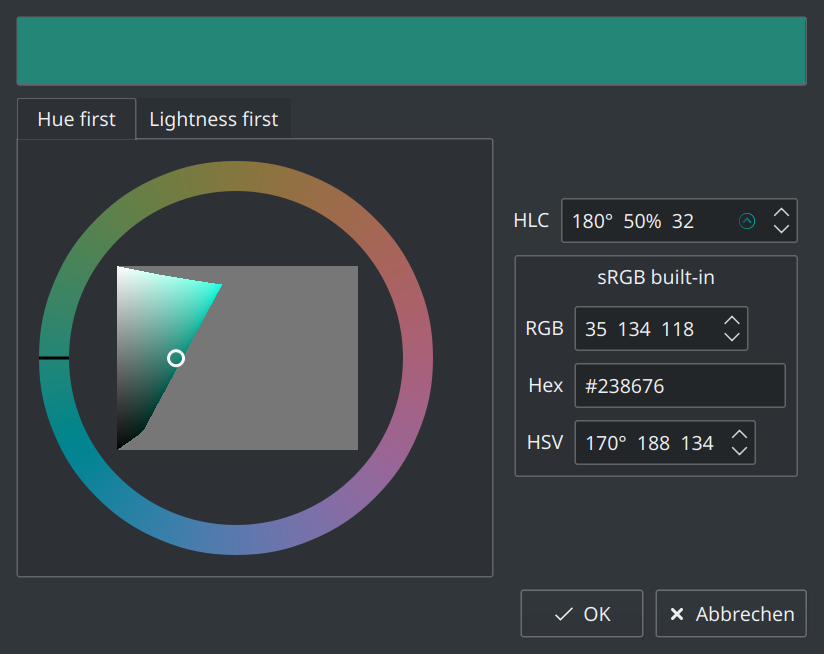
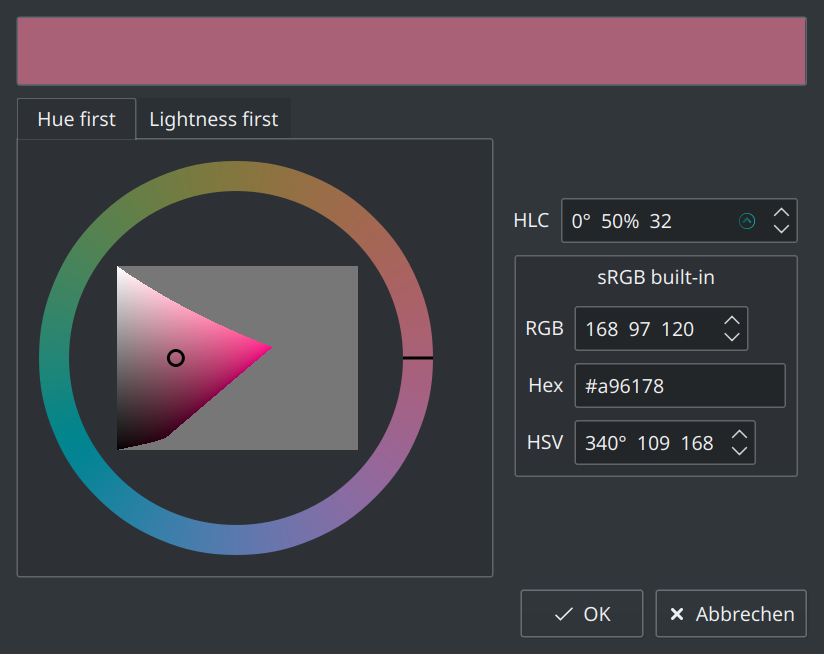
Bug fixes for ChromaLightnessDiagram and translation update

diff --git a/test/testchromalightnessdiagram.cpp b/test/testchromalightnessdiagram.cpp
@@ -263,18 +263,30 @@ private Q_SLOTS:
         QTest::mouseRelease(&myWidget, Qt::MouseButton::LeftButton);
     }
 
-    void testPaintEvent()
+    void testPaintEventNormalSize()
+    {
+        ChromaLightnessDiagram myWidget {m_rgbColorSpace};
+        myWidget.show();
+        // Test normal size
+        myWidget.resize(100, 100);
+        myWidget.repaint();
+    }
+
+    void testPaintEventTooSmallSize()
+    {
+        ChromaLightnessDiagram myWidget {m_rgbColorSpace};
+        myWidget.show();
+        // Test small size (too small to show a diagram)
+        myWidget.resize(2, 2);
+        myWidget.repaint();
+    }
+
+    void testPaintEventEmptySize()
     {
         ChromaLightnessDiagram myWidget {m_rgbColorSpace};
         myWidget.show();
         // Test empty size
         myWidget.resize(0, 0);
-        myWidget.repaint();
-        // Test small size (too small to show a diagram)
-        myWidget.resize(2, 2);
-        myWidget.repaint();
-        // Test normal size
-        myWidget.resize(100, 100);
         myWidget.repaint();
     }
 
@@ -286,15 +298,14 @@ private Q_SLOTS:
         referenceColorLch.c = 20;
         referenceColorLch.h = 180;
         myDiagram.setCurrentColor(referenceColorLch);
-        if (myDiagram.currentColor().l != 50) {
-            throw;
-        }
-        if (myDiagram.currentColor().h != 180) {
-            throw;
-        }
-        if (myDiagram.currentColor().c != 0) {
-            throw;
-        }
+
+        // Assert pre-conditions:
+
+        QCOMPARE(myDiagram.currentColor().l, 50);
+        QCOMPARE(myDiagram.currentColor().c, 20);
+        QCOMPARE(myDiagram.currentColor().h, 180);
+
+        // Actual test:
 
         myDiagram.setCurrentColor(referenceColorLch);
         QTest::keyClick(&myDiagram, Qt::Key_Left);
@@ -323,13 +334,13 @@ private Q_SLOTS:
         myDiagram.setCurrentColor(referenceColorLch);
         QTest::keyClick(&myDiagram, Qt::Key_Home);
         QVERIFY(myDiagram.currentColor().l == referenceColorLch.l);
-        QVERIFY(myDiagram.currentColor().c < referenceColorLch.c);
+        QVERIFY(myDiagram.currentColor().c > referenceColorLch.c);
         QVERIFY(myDiagram.currentColor().h == referenceColorLch.h);
 
         myDiagram.setCurrentColor(referenceColorLch);
         QTest::keyClick(&myDiagram, Qt::Key_End);
         QVERIFY(myDiagram.currentColor().l == referenceColorLch.l);
-        QVERIFY(myDiagram.currentColor().c > referenceColorLch.c);
+        QVERIFY(myDiagram.currentColor().c < referenceColorLch.c);
         QVERIFY(myDiagram.currentColor().h == referenceColorLch.h);
 
         myDiagram.setCurrentColor(referenceColorLch);
@@ -350,15 +361,15 @@ private Q_SLOTS:
 
         myDiagram.setCurrentColor(referenceColorLch);
         QTest::keyClick(&myDiagram, Qt::Key_Left);
-        QVERIFY(myDiagram.currentColor().l == referenceColorLch.l);
-        QVERIFY(myDiagram.currentColor().c == referenceColorLch.c);
-        QVERIFY(myDiagram.currentColor().h == referenceColorLch.h);
+        QCOMPARE(myDiagram.currentColor().l, referenceColorLch.l);
+        QCOMPARE(myDiagram.currentColor().c, referenceColorLch.c);
+        QCOMPARE(myDiagram.currentColor().h, referenceColorLch.h);
 
         myDiagram.setCurrentColor(referenceColorLch);
-        QTest::keyClick(&myDiagram, Qt::Key_Home);
-        QVERIFY(myDiagram.currentColor().l == referenceColorLch.l);
-        QVERIFY(myDiagram.currentColor().c == referenceColorLch.c);
-        QVERIFY(myDiagram.currentColor().h == referenceColorLch.h);
+        QTest::keyClick(&myDiagram, Qt::Key_End);
+        QCOMPARE(myDiagram.currentColor().l, referenceColorLch.l);
+        QCOMPARE(myDiagram.currentColor().c, referenceColorLch.c);
+        QCOMPARE(myDiagram.currentColor().h, referenceColorLch.h);
 
         referenceColorLch.l = 0;
 
@@ -419,6 +430,7 @@ private Q_SLOTS:
         color.c = 20;
         color.h = 10;
         test.setCurrentColor(color);
+        QVERIFY(test.currentColor().hasSameCoordinates(color));
         QSignalSpy spy(&test, &ChromaLightnessDiagram::currentColorChanged);
         QCOMPARE(spy.count(), 0);
 

diff --git a/test/testrgbcolorspace.cpp b/test/testrgbcolorspace.cpp
@@ -1,0 +1,107 @@
+// SPDX-License-Identifier: MIT
+/*
+ * Copyright (c) 2020 Lukas Sommer sommerluk@gmail.com
+ *
+ * Permission is hereby granted, free of charge, to any person
+ * obtaining a copy of this software and associated documentation
+ * files (the "Software"), to deal in the Software without
+ * restriction, including without limitation the rights to use,
+ * copy, modify, merge, publish, distribute, sublicense, and/or sell
+ * copies of the Software, and to permit persons to whom the
+ * Software is furnished to do so, subject to the following
+ * conditions:
+ *
+ * The above copyright notice and this permission notice shall be
+ * included in all copies or substantial portions of the Software.
+ *
+ * THE SOFTWARE IS PROVIDED "AS IS", WITHOUT WARRANTY OF ANY KIND,
+ * EXPRESS OR IMPLIED, INCLUDING BUT NOT LIMITED TO THE WARRANTIES
+ * OF MERCHANTABILITY, FITNESS FOR A PARTICULAR PURPOSE AND
+ * NONINFRINGEMENT. IN NO EVENT SHALL THE AUTHORS OR COPYRIGHT
+ * HOLDERS BE LIABLE FOR ANY CLAIM, DAMAGES OR OTHER LIABILITY,
+ * WHETHER IN AN ACTION OF CONTRACT, TORT OR OTHERWISE, ARISING
+ * FROM, OUT OF OR IN CONNECTION WITH THE SOFTWARE OR THE USE OR
+ * OTHER DEALINGS IN THE SOFTWARE.
+ */
+
+#include "PerceptualColor/perceptualcolorglobal.h"
+#include "perceptualcolorinternal.h"
+
+// First included header is the public header of the class we are testing;
+// this forces the header to be self-contained.
+#include "rgbcolorspace.h"
+// Second, the private implementation.
+#include "rgbcolorspace_p.h"
+
+#include <QtTest>
+
+#include "PerceptualColor/rgbcolorspacefactory.h"
+
+namespace PerceptualColor
+{
+class TestRgbColorSpace : public QObject
+{
+    Q_OBJECT
+
+public:
+    TestRgbColorSpace(QObject *parent = nullptr)
+        : QObject(parent)
+    {
+    }
+
+private Q_SLOTS:
+    void initTestCase()
+    {
+        // Called before the first test function is executed
+    }
+
+    void cleanupTestCase()
+    {
+        // Called after the last test function was executed
+    }
+
+    void init()
+    {
+        // Called before each test function is executed
+    }
+
+    void cleanup()
+    {
+        // Called after every test function
+    }
+
+    void testNearestInGamutColorByAdjustingChromaLightness()
+    {
+        QSharedPointer<PerceptualColor::RgbColorSpace> myColorSpace =
+            // Create sRGB which is pretty much standard.
+            PerceptualColor::RgbColorSpaceFactory::createSrgb();
+
+        // Variables
+        LchDouble color;
+        LchDouble nearestInGamutColor;
+
+        // In-gamut colors should not be changed.
+        color.l = 50;
+        color.c = 20;
+        color.h = 10;
+        nearestInGamutColor = myColorSpace->nearestInGamutColorByAdjustingChromaLightness(color);
+        QVERIFY(nearestInGamutColor.hasSameCoordinates(color));
+
+        // A negative chroma value should not be normalized (this would
+        // mean to change the hue), but just put to 0.
+        color.l = 50;
+        color.c = -20;
+        color.h = 10;
+        nearestInGamutColor = myColorSpace->nearestInGamutColorByAdjustingChromaLightness(color);
+        QCOMPARE(nearestInGamutColor.l, 50);
+        QCOMPARE(nearestInGamutColor.c, 0);
+        QCOMPARE(nearestInGamutColor.h, 10);
+    }
+};
+
+} // namespace PerceptualColor
+
+QTEST_MAIN(PerceptualColor::TestRgbColorSpace)
+
+// The following “include” is necessary because we do not use a header file:
+#include "testrgbcolorspace.moc"

diff --git a/src/colordialog.cpp b/src/colordialog.cpp
@@ -58,31 +58,13 @@ ColorDialog::ColorDialog(QWidget *parent)
     , d_pointer(new ColorDialogPrivate(this))
 {
     d_pointer->initialize();
-    // As initial color, QColorDialog chooses white, probably because
-    // it’t quite neutral.
-    // We do things differently here: We want a color that has a chroma,
-    // because this way, new users do not see the widget diagrams at an
-    // extreme position, but somewhere in the middle. This is important,
-    // because extreme positions like “white” leave for example the
-    // chroma-hue-diagram at zero surface. Therefore, we try a middle
-    // lightness and a middle chroma (a lightness-chroma-combination that
-    // will be valid through the hole range of hue. For the hue, the natural
-    // choice would be 0°, which is red. Why choosing something different
-    // from 0° without a technical reason? If the lightness is 50%, among 0°,
-    // 90°, 180° and 270°, it’s 180° that has the lowest possible maximum C.
-    // Therefore, we choose 180°, because at a given chroma, the resulting
-    // color is more vivid than those at 0°, 90° and 270°. Also, be choose
-    // 180° because the color seems clean and colorful.
-    LchDouble initialColor;
-    initialColor.h = 180;
-    initialColor.l = LchValues::neutralLightness;
-    initialColor.c = LchValues::srgbVersatileChroma;
     // Calling setCurrentFullColor() guaranties to update all widgets
     // because it always sets a valid color, even when the color
     // parameter was invalid. As m_currentOpaqueColor is invalid
     // be default, and therefor different, setCurrentColor()
     // guaranties to update all widgets.
-    LchDouble lch = d_pointer->m_rgbColorSpace->nearestInGamutColorByAdjustingChroma(initialColor);
+    // TODO xxx
+    LchDouble lch = d_pointer->m_rgbColorSpace->nearestInGamutColorByAdjustingChroma(LchValues::srgbVersatileInitialColor);
     LchaDouble lcha;
     lcha.l = lch.l;
     lcha.c = lch.c;
@@ -464,7 +446,10 @@ void ColorDialog::ColorDialogPrivate::initialize()
     q_pointer->setOptions(QColorDialog::ColorDialogOption::DontUseNativeDialog);
 
     // Initialize the window title
-    q_pointer->setWindowTitle(tr("Select Color"));
+    // TODO Test that
+    // 1.) Our own translation has priority over the fallback
+    // 2.) Fallback to Qt translation works if no own translation is available
+    q_pointer->setWindowTitle(QColorDialog::tr("Select Color"));
 
     // Enable size grip
     // As this dialog can indeed be resized, the size grip should

diff --git a/src/rgbcolorspace.cpp b/src/rgbcolorspace.cpp
@@ -460,10 +460,21 @@ PerceptualColor::LchDouble RgbColorSpace::nearestInGamutColorByAdjustingChroma(c
 PerceptualColor::LchDouble RgbColorSpace::nearestInGamutColorByAdjustingChromaLightness(const PerceptualColor::LchDouble &color)
 {
     // TODO Would be great if this function could be const
-    QPoint myPixelPosition(qRound(color.c * (d_pointer->nearestNeighborSearchImageHeight - 1) / 100.0), qRound(d_pointer->nearestNeighborSearchImageHeight - 1 - color.l * (d_pointer->nearestNeighborSearchImageHeight - 1) / 100.0));
-    d_pointer->nearestNeighborSearchImage->setHue(color.h);
+
+    // Initialization
+    LchDouble temp = color;
+    if (temp.c < 0) {
+        temp.c = 0;
+    }
+
+    if (isInGamut(temp)) {
+        return temp;
+    }
+
+    QPoint myPixelPosition(qRound(temp.c * (d_pointer->nearestNeighborSearchImageHeight - 1) / 100.0), qRound(d_pointer->nearestNeighborSearchImageHeight - 1 - temp.l * (d_pointer->nearestNeighborSearchImageHeight - 1) / 100.0));
+    d_pointer->nearestNeighborSearchImage->setHue(temp.h);
     myPixelPosition = d_pointer->nearestNeighborSearch(myPixelPosition, d_pointer->nearestNeighborSearchImage->getImage());
-    LchDouble result = color;
+    LchDouble result = temp;
     result.c = myPixelPosition.x() * 100.0 / (d_pointer->nearestNeighborSearchImageHeight - 1);
     result.l = 100 - myPixelPosition.y() * 100.0 / (d_pointer->nearestNeighborSearchImageHeight - 1);
     return result;

diff --git a/src/chromalightnessdiagram.cpp b/src/chromalightnessdiagram.cpp
@@ -468,6 +468,14 @@ void ChromaLightnessDiagram::keyPressEvent(QKeyEvent *event)
  * and lightness ranges? */
 bool ChromaLightnessDiagram::ChromaLightnessDiagramPrivate::isWidgetPixelPositionInGamut(const QPoint widgetPixelPosition) const
 {
+    if (calculateImageSizePhysical().isEmpty()) {
+        // If there is no displayed gamut, the anser must be false.
+        // But fromWidgetPixelPositionToColor() would return an in-gamut
+        // fallback color nevertheless. Therefore, we have to catch
+        // the special case with an empty diagram here manually.
+        return false;
+    }
+
     const LchDouble color = fromWidgetPixelPositionToColor(widgetPixelPosition);
     return (
         // Test if C is in range. This is important because a negative C value
@@ -492,7 +500,6 @@ void ChromaLightnessDiagram::setCurrentColor(const PerceptualColor::LchDouble &n
     const LchDouble newColorInGamut =
         // Move newCurrentColor into the gamut (if necessary) – while preserving the hue:
         d_pointer->m_rgbColorSpace->nearestInGamutColorByAdjustingChromaLightness(newCurrentColor);
-
     if (newColorInGamut.hasSameCoordinates(d_pointer->m_currentColor)) {
         return;
     }

diff --git a/src/lchvalues.h b/src/lchvalues.h
@@ -114,8 +114,13 @@ public:
      *
      * The hue range is not linear, but circular – and so are the widgets
      * displaying him: The handle has the same visibility, whereever he is
-     * and whatever the hue value is. Therefore, we use a neutral hue
-     * as default value. */
+     * and whatever the hue value is. Therefore, we use 0° as default value
+     * which seems to be the natural choise.
+     *
+     * @note An alternative to 0° might be 180°. If the lightness is 50%,
+     * among 0°, 90°, 180° and 270°, it’s 180° that has the lowest possible
+     * maximum chroma. So when choose 180°, with a given chroma, the resulting
+     * color is more vivid and clean than those at 0°, 90° and 270°. */
     static constexpr LchDouble srgbVersatileInitialColor {neutralLightness, srgbVersatileChroma, neutralHue};
 
 private:

diff --git a/tools/main.cpp b/tools/main.cpp
@@ -72,7 +72,7 @@ int main(int argc, char *argv[])
     QCoreApplication::setAttribute(Qt::AA_UseHighDpiPixmaps);
     // Instanciate the application object
     QApplication app(argc, argv);
-    app.setApplicationName(QObject::tr(u8"Perceptual color picker"));
+    app.setApplicationName(QObject::tr("Perceptual color picker"));
     // app.setLayoutDirection(Qt::RightToLeft);
     // QLocale::setDefault(QLocale::Bengali);
     // QLocale::setDefault(QLocale::German);

diff --git a/src/mainpage.cpp b/src/mainpage.cpp
@@ -91,8 +91,6 @@
  * @todo No caller graph/referenced by, in doxygen. (Result is not reliably. Better no graph
  * than an incomplete graph.)
  *
- * @todo Default color for @ref PerceptualColor::ColorDialog?
- *
  * @todo Test also on Windows. (Does it work well with VisualStudio?
  * Isn’t there a free version of VisualStudio? Test it with this
  * library!)
